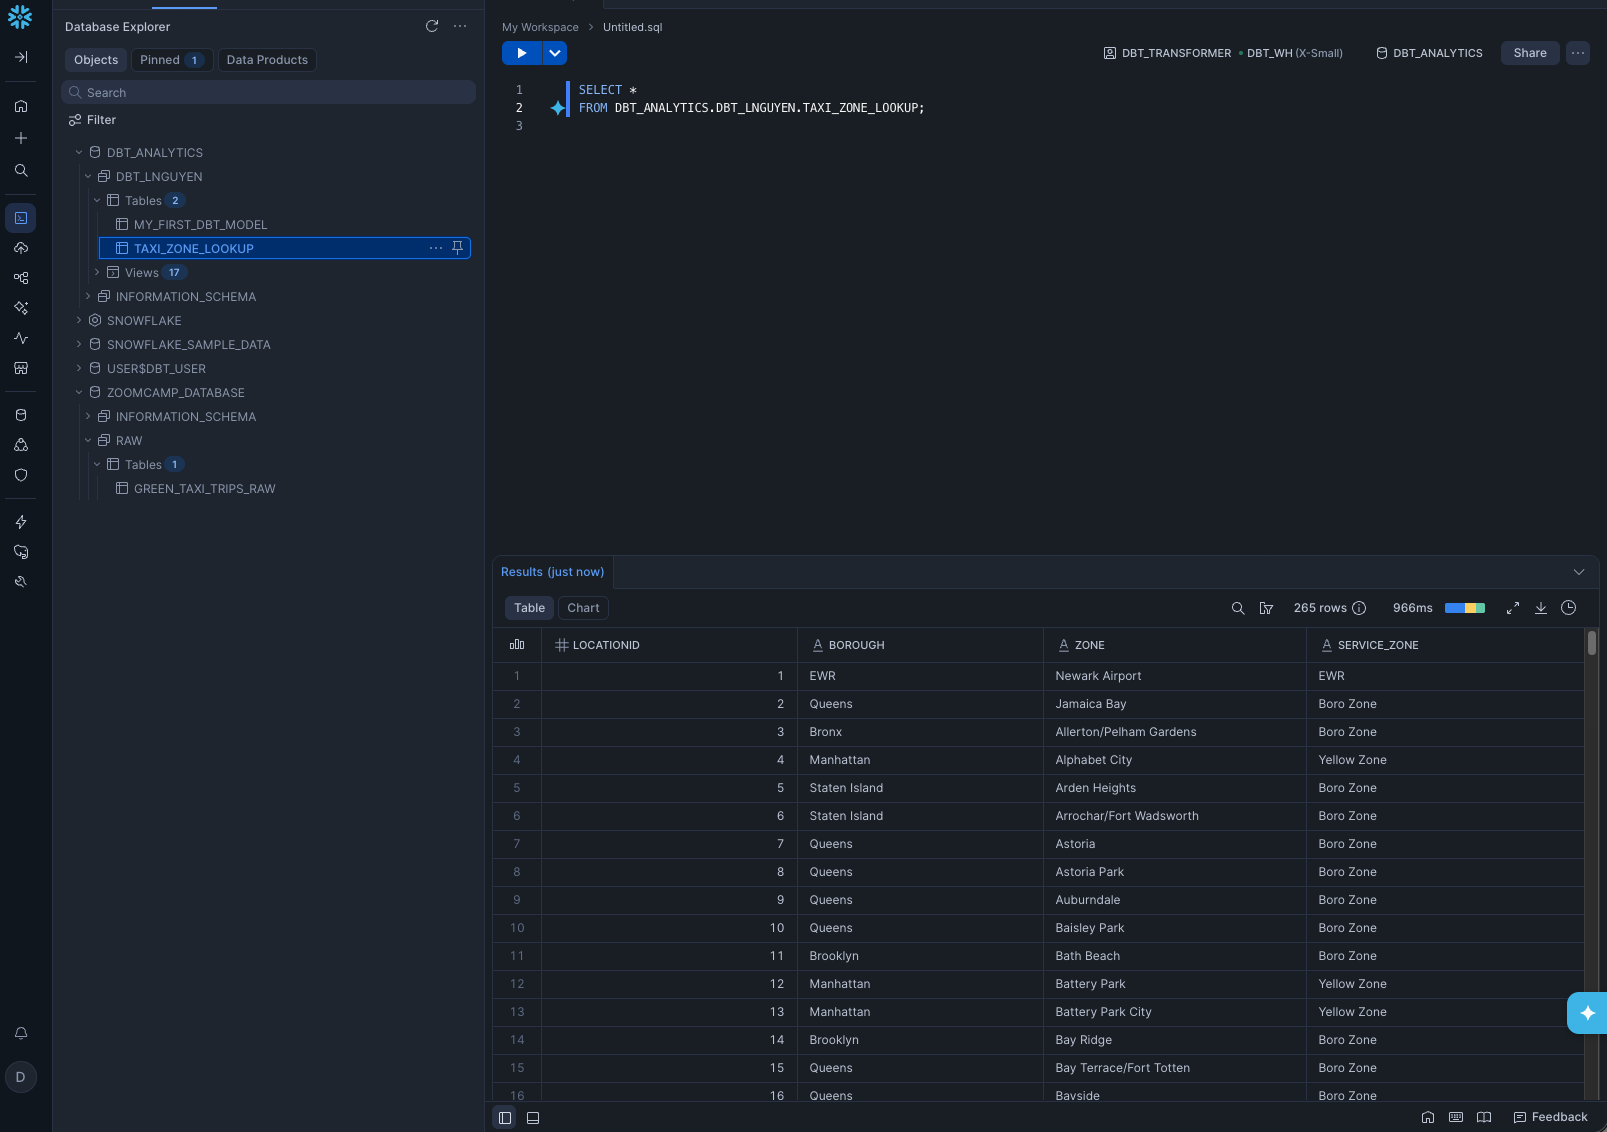
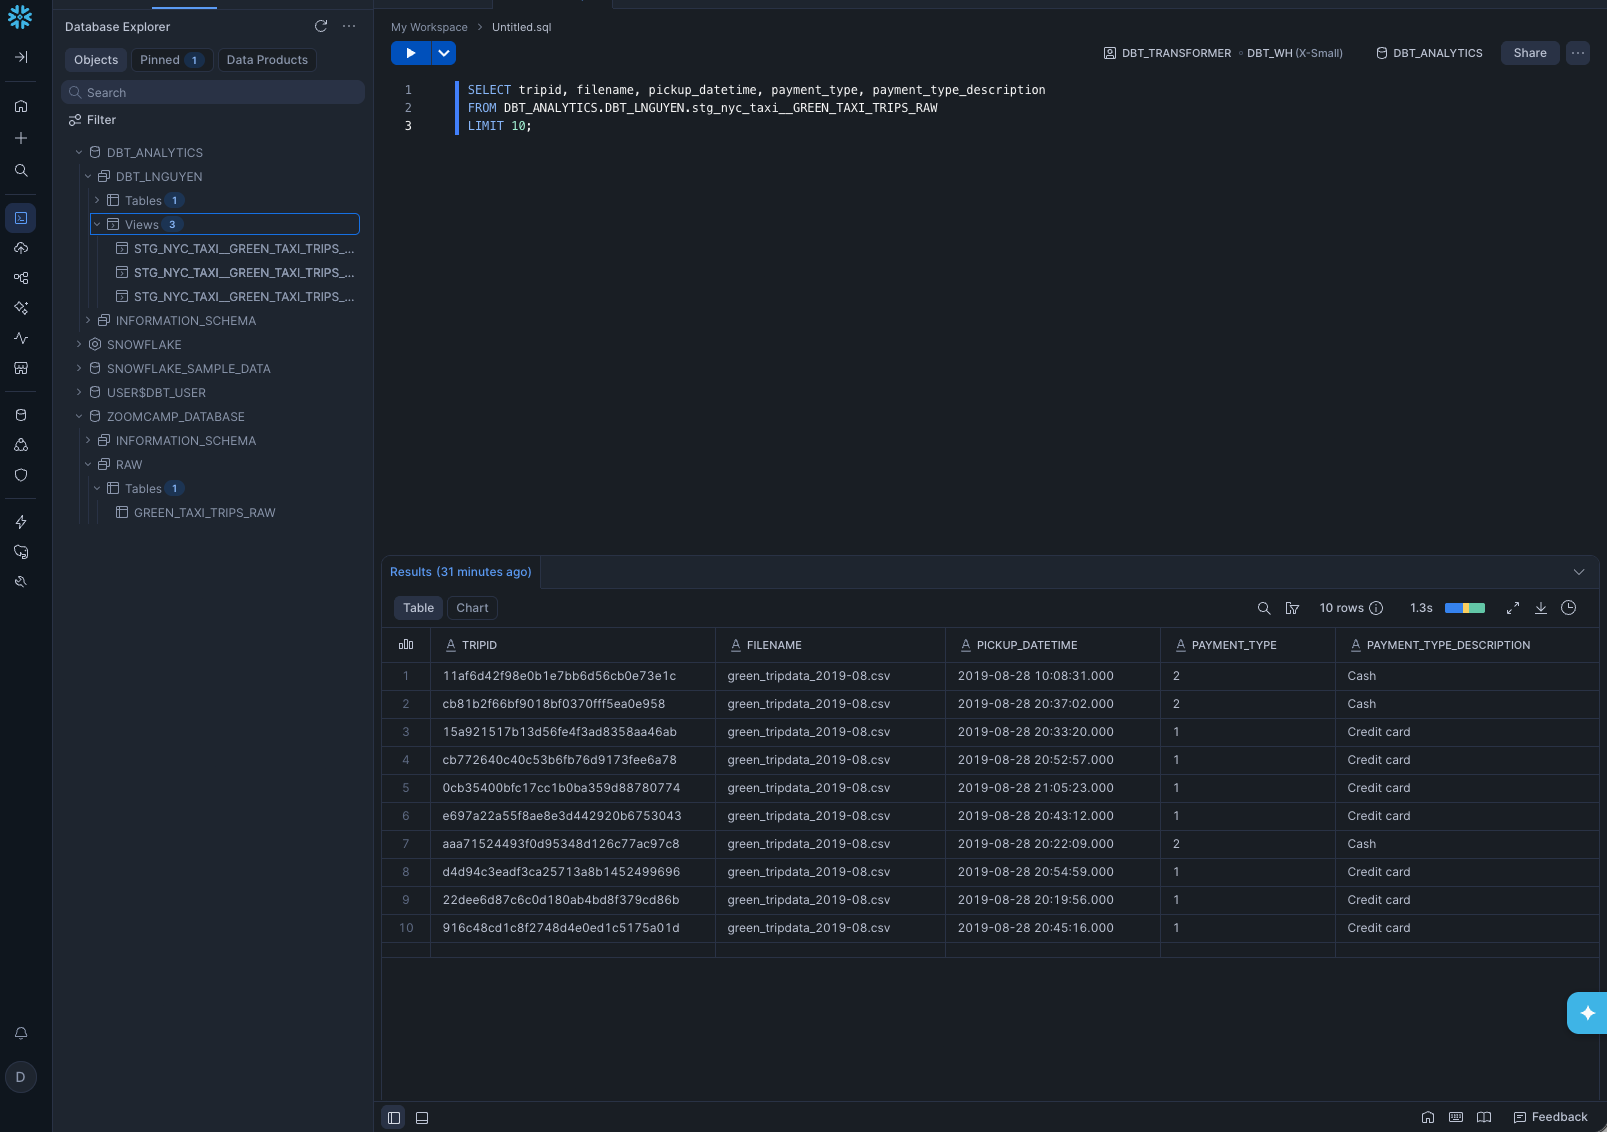
Add monthly revenue table, fix typos

diff --git a/04-analytics-engineering/README.md b/04-analytics-engineering/README.md
@@ -1,11 +1,20 @@
 # dbt
 
-In this module, we will be taking the raw green taxi trip data stored in Snowflake, clean and modify it, and then merge it with a taxi zone lookup CSV file.
+**dbt (data build tool)** is a framework that allows data engineers to transform data directly within their warehouse using software engineering best practices like modularity, version control, and automated testing. By combining SQL with Jinja templating, dbt enables the creation of reusable, maintainable, and self-documenting data pipelines.
 
+In this module, we implement an ELT workflow to convert raw NYC Green Taxi records into a structured Star Schema. Our process involves:
+
+- Staging: Cleaning and standardizing raw Snowflake data
+
+- Macro Development: Creating reusable Jinja logic to handle complex business rules
+
+- Dimensional Modeling: Utilizing dbt Seeds to ingest taxi zone metadata and performing  joins to create the final Fact and Dimension tables
+
+![04-db-01]
 
 ## Snowflake setup
 
-Here, we will create the resources needed for dbt to connect to Snowflake and access our databases. This includes a:
+To begin, we will create the resources needed for dbt to connect to Snowflake and access our databases. This includes a:
 - Database
 - Schema
 - Warehouse
@@ -47,7 +56,7 @@ GRANT ROLE dbt_transformer TO USER dbt_user;
 
 ### Setup verification
 
-To verify that the user was correctly setup and has the correct permissions, sign in as `dbt_user` and run the following sql statements:
+To verify that the user was correctly set up and has the correct permissions, sign in as `dbt_user` and run the following sql statements:
 
 ```sql
 USE WAREHOUSE DBT_WH;
@@ -61,7 +70,7 @@ CREATE OR REPLACE TABLE TEST_TABLE AS (
 SELECT * FROM TEST_TABLE;
 ```
 
-Once we verified our permissions, we can drop the test schema and table with:
+After verifying our permissions, we can drop the test schema and table with:
 
 ```sql
 DROP SCHEMA TEST_SCHEMA;
@@ -70,9 +79,9 @@ DROP SCHEMA TEST_SCHEMA;
 
 ## dbt cloud setup
 
-For this step, you will need your Snowflake account identifier. The identifier is in the format `<orgname>-<account_name>`. It can be found in the Snowsight URL after signing in:
+For this step, you will need your Snowflake account identifier. The identifier is in the format `<ORGNAME>-<ACCOUNT_NAME>`. It can be found in the Snowsight URL after signing in:
 
-`https://app.snowflake.com/<orgname>/<account_name>/#/homepage`
+`https://app.snowflake.com/<ORGNAME>/<ACCOUNT_NAME>/#/homepage`
 
 It can also be found by: 
 - Clicking on your account name in the bottom-left corner
@@ -188,7 +197,7 @@ select * from renamed
 
 Since we will be creating our own row identifier later, we can remove `unique_row_id` from the view.
 
-Clicking `Save` will automatically create a `staging/nyc_taxi` path in the `models/` folder and save the `stg_nyc_taxi__GREEN_TAXI_TRIPS_RAW.sql` file there. We'll also remove the `example` folder in the `models/` folder.
+Clicking `Save` will automatically create a `models/staging/nyc_taxi` path containing the `stg_nyc_taxi__GREEN_TAXI_TRIPS_RAW.sql` file. We'll also remove the `example` folder in the `models/` folder.
 ```
 models/
 │   ├── staging
@@ -197,7 +206,7 @@ models/
 │   └── nyc_sources.yml    
 ```
 
-## Create macro
+## Create macro for getting payment type description
 
 Our taxi dataset features a `PAYMENT_TYPE` column, which uses a numeric code to identify how the passenger paid for the trip.
 - 0 = Flex Fare trip
@@ -295,7 +304,7 @@ We can see what the compiled code looks like by clicking on **Compile** (or pres
     end as payment_type_description, -- <=== Add column
 ```
 
-## Import dbt-utils package
+## Create surrogate key using macro from dbt-utils package
 
 The [dbt-utils package](https://hub.getdbt.com/dbt-labs/dbt_utils/latest/) is a collection of reusable macros and helper functions for that simplify common transformations, testing, and data modeling tasks across projects.
 
@@ -387,14 +396,14 @@ Once complete, switch to **Snowflake**, and sign in as `dbt_user`. Open a SQL fi
 
 ```sql
 SELECT tripid, filename, pickup_datetime, payment_type, payment_type_description
-FROM DBT_ANALYTICS.DBT_LNGUYEN.stg_nyc_taxi__GREEN_TAXI_TRIPS_RAW 
+from DBT_ANALYTICS.DBT_LNGUYEN.stg_nyc_taxi__GREEN_TAXI_TRIPS_RAW 
 LIMIT 10;
 ```
 - Replace `DBT_LNGUYEN` with the schema provided during the dbt project setup (default is `dvt_<first_name_initial + last_name>`)
 
 We should see our green taxi dataset with the two added columns.
 
-![04-db-01]
+![04-db-02]
 
 ## Clean data
 
@@ -471,11 +480,11 @@ dbt build --select stg_nyc_taxi__GREEN_TAXI_TRIPS_RAW.sql --vars 'is_test_run: f
 
 ## Dimensional modeling
 
-In this section, we''l organize our data into a star schema. We'll build a dimension table that holds the zone/location attributes, as well as a fact table that will contain one row per trip.
+In this section, we'll organize our data into a star schema. We'll build a dimension table that holds the zone/location attributes, as well as a fact table that will contain one row per trip.
 
 ### Create dimension table (Seeds)
 
-dbt seeds are CSV files located in a dbt project's `seeds/` directory that can be loaded into a data warehouse as tables. In this section, we'll add a lookup table for 
+dbt seeds are CSV files located in a dbt project's `seeds/` directory that can be loaded into a data warehouse as tables. This is ideal for static metadata like the Taxi Zone Lookup, which doesn't change frequently but is essential for dimensional joins.
 
 Download the [taxi_zone_lookup.csv](https://github.com/DataTalksClub/data-engineering-zoomcamp/blob/main/04-analytics-engineering/taxi_rides_ny/seeds/taxi_zone_lookup.csv) file from the DataTalksClub Github and add the file to the `seeds/` folder.
 
@@ -487,21 +496,21 @@ dbt seed
 
 In Snowflake, we'll see that a `TAXI_ZONE_LOOKUP` table has been added to the `DBT_ANALYTICS` database.
 
-![04-db-02]
+![04-db-03]
 
 We'll prepare the lookup table to be merged with our taxi data.
 
-Add a `core/` folder to `models`. Create a `dim_zones.sql` file within the `core/` folder.
+Create a new folder called `models/core` and add a `dim_zones.sql` file.
 
 ```sql
 -- dim_zones.sql
 
-SELECT
+select
     locationid as location_id,
     borough,
     zone,
     replace(service_zone, 'Boro', 'Green') as service_zone
-FROM {{ ref('taxi_zone_lookup') }}
+from {{ ref('taxi_zone_lookup') }}
 ```
 
 Click on **Build** to create our `dim_zones` model.
@@ -512,7 +521,7 @@ If you loaded the Yellow taxi data as well, you would union the two datasets in 
 
 This project only works with the Green taxi data, so the union step is excluded here. Instead, we will just join the Green taxi data with the taxi zone lookup table.
 
-In the `models/` directory, create a new folder called `intermediate` abd add a file called `fct_trips.sql`.
+Add another file called `fct_trips.sql` to the `core/` folder.
 
 ```sql
 -- fct_trips.sql
@@ -524,28 +533,28 @@ In the `models/` directory, create a new folder called `intermediate` abd add a 
 }}
 
 with green_tripdata as (
-    SELECT * 
-    FROM {{ ref('stg_nyc_taxi__GREEN_TAXI_TRIPS_RAW') }}
+    select * 
+    from {{ ref('stg_nyc_taxi__GREEN_TAXI_TRIPS_RAW') }}
 ),
 
 dim_zones as (
-    SELECT *
-    FROM {{ ref('dim_zones') }}
-    WHERE borough != 'Unknown'
+    select *
+    from {{ ref('dim_zones') }}
+    where borough != 'Unknown'
 )
 
-SELECT 
+select 
     trips.tripid,
     trips.vendor_id,
     trips.rate_code_id,
 
     trips.pickup_location_id,
-    pu_zones.borough AS pickup_borough,
-    pu_zones.zone AS pickup_zone_name,
+    pu_zones.borough as pickup_borough,
+    pu_zones.zone as pickup_zone_name,
 
     trips.dropoff_location_id,
-    do_zones.borough AS dropoff_borough,
-    do_zones.zone AS dropoff_zone_name,
+    do_zones.borough as dropoff_borough,
+    do_zones.zone as dropoff_zone_name,
 
     trips.pickup_datetime,
     trips.dropoff_datetime,
@@ -566,20 +575,60 @@ SELECT
     trips.payment_type,
     trips.payment_type_description
 
-FROM green_tripdata AS trips
-INNER JOIN dim_zones AS pu_zones 
-    ON trips.pickup_location_id = pu_zones.location_id
-INNER JOIN dim_zones AS do_zones 
-    ON trips.dropoff_location_id = do_zones.location_id
+from green_tripdata as trips
+inner join dim_zones as pu_zones 
+    on trips.pickup_location_id = pu_zones.location_id
+inner join dim_zones as do_zones 
+    on trips.dropoff_location_id = do_zones.location_id
 ```
 
 Click on **Build** to create our `fact_trips` model.
 
 In Snowflake, we are now able to query the `fct_trips` table and see the pickup and dropoff boroughs and zones for each trip.
 
-![04-db-03]
+![04-db-04]
+
+## Create Monthly Revenue Mart
+
+In this section, we build a **Mart**, which represents the final, consumption-ready layer of our project. While staging models focus on cleaning and fact tables focus on individual events, a mart focuses on a specific business process or entity.
+
+We will create a monthly revenue summary that aggregates data by pickup zone and month.
+
+Create a folder called `models/marts` and add a `fct_monthly_zone_revenue.sql` file.
+
+```sql
+-- fct_monthly_zone_revenue.sql
+
+with trips_data as (
+    select * from {{ ref('fct_trips') }}
+)
+
+    select 
+        pickup_zone_name as revenue_zone,
+        {{ dbt.date_trunc("month", "pickup_datetime") }} as revenue_month,
+        sum(fare_amount) as total_monthly_fare,
+        sum(extra) as total_monthly_extra,
+        sum(mta_tax) as total_monthly_mta_tax,
+        sum(tip_amount) as total_monthly_tip_amount,
+        sum(improvement_surcharge) as total_monthly_improvement_surcharge,
+        sum(total_amount) as total_monthly_revenue,
+        count(tripid) as total_monthly_trips,
+        avg(passenger_count) as avg_monthly_passenger_count,
+        avg(trip_distance) as avg_monthly_trip_distance
+
+    from trips_data
+    group by 1,2
+```
+
+The `dbt.date_trunc` macro allows us to standardize all pickup timestamps to the first day of their respective month. This provides a clean way to perform the monthly grouping.
+
+After clicking **Build**, we can query this table in Snowflake and analyze the monthly revenue for each zone:
+
+![04-db-05]
 
 
 [04-db-01]: ../img/04-db-01.png
 [04-db-02]: ../img/04-db-02.png
 [04-db-03]: ../img/04-db-03.png
+[04-db-04]: ../img/04-db-04.png
+[04-db-05]: ../img/04-db-05.png
